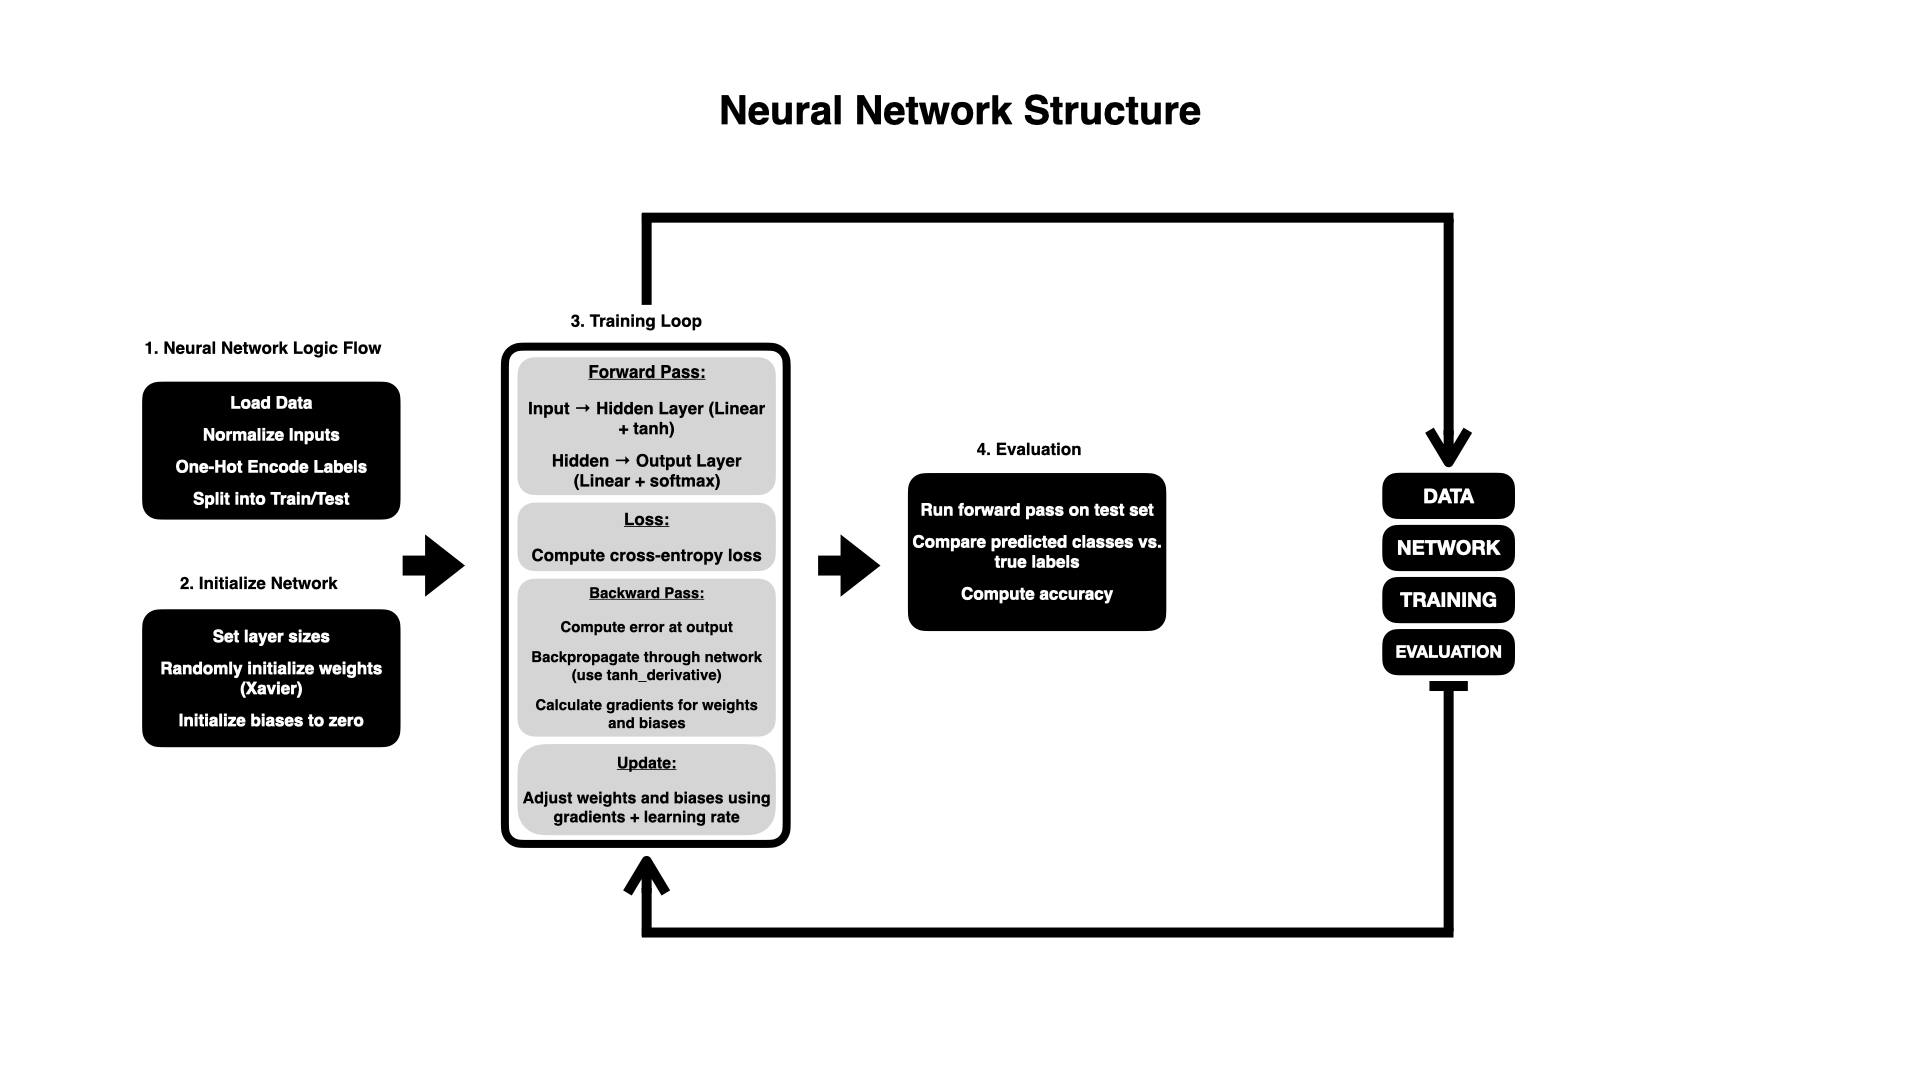
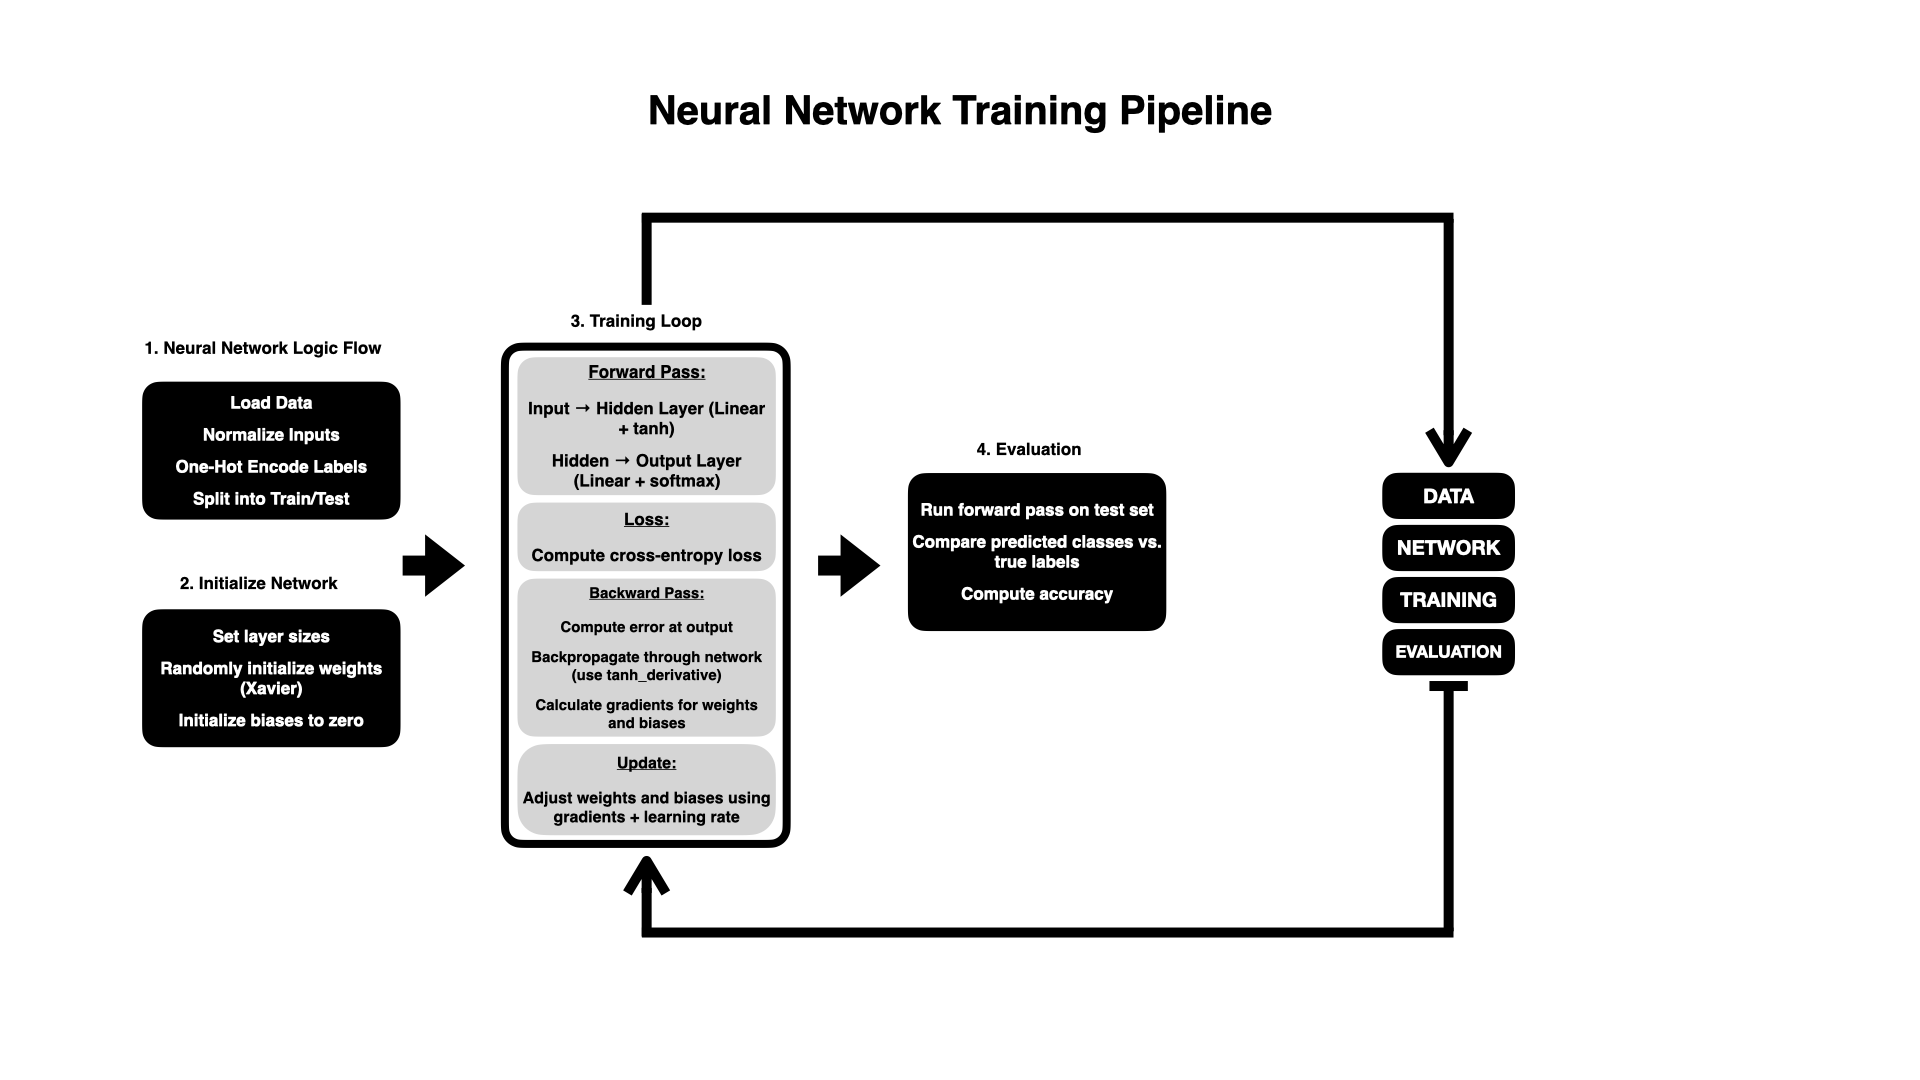
Update

Changed region(s): [[0.3125, 0.0917, 0.6875, 0.1222]]

diff --git a/README.md b/README.md
@@ -6,7 +6,7 @@ It’s designed to **demystify neural nets** by showing how every part works: fr
 
 ---
 
-## 🧠 Neural Network Structure
+## 🧠 Neural Network Training Pipeline
 
 This diagram shows the complete flow of a neural network from data loading to evaluation.
 
